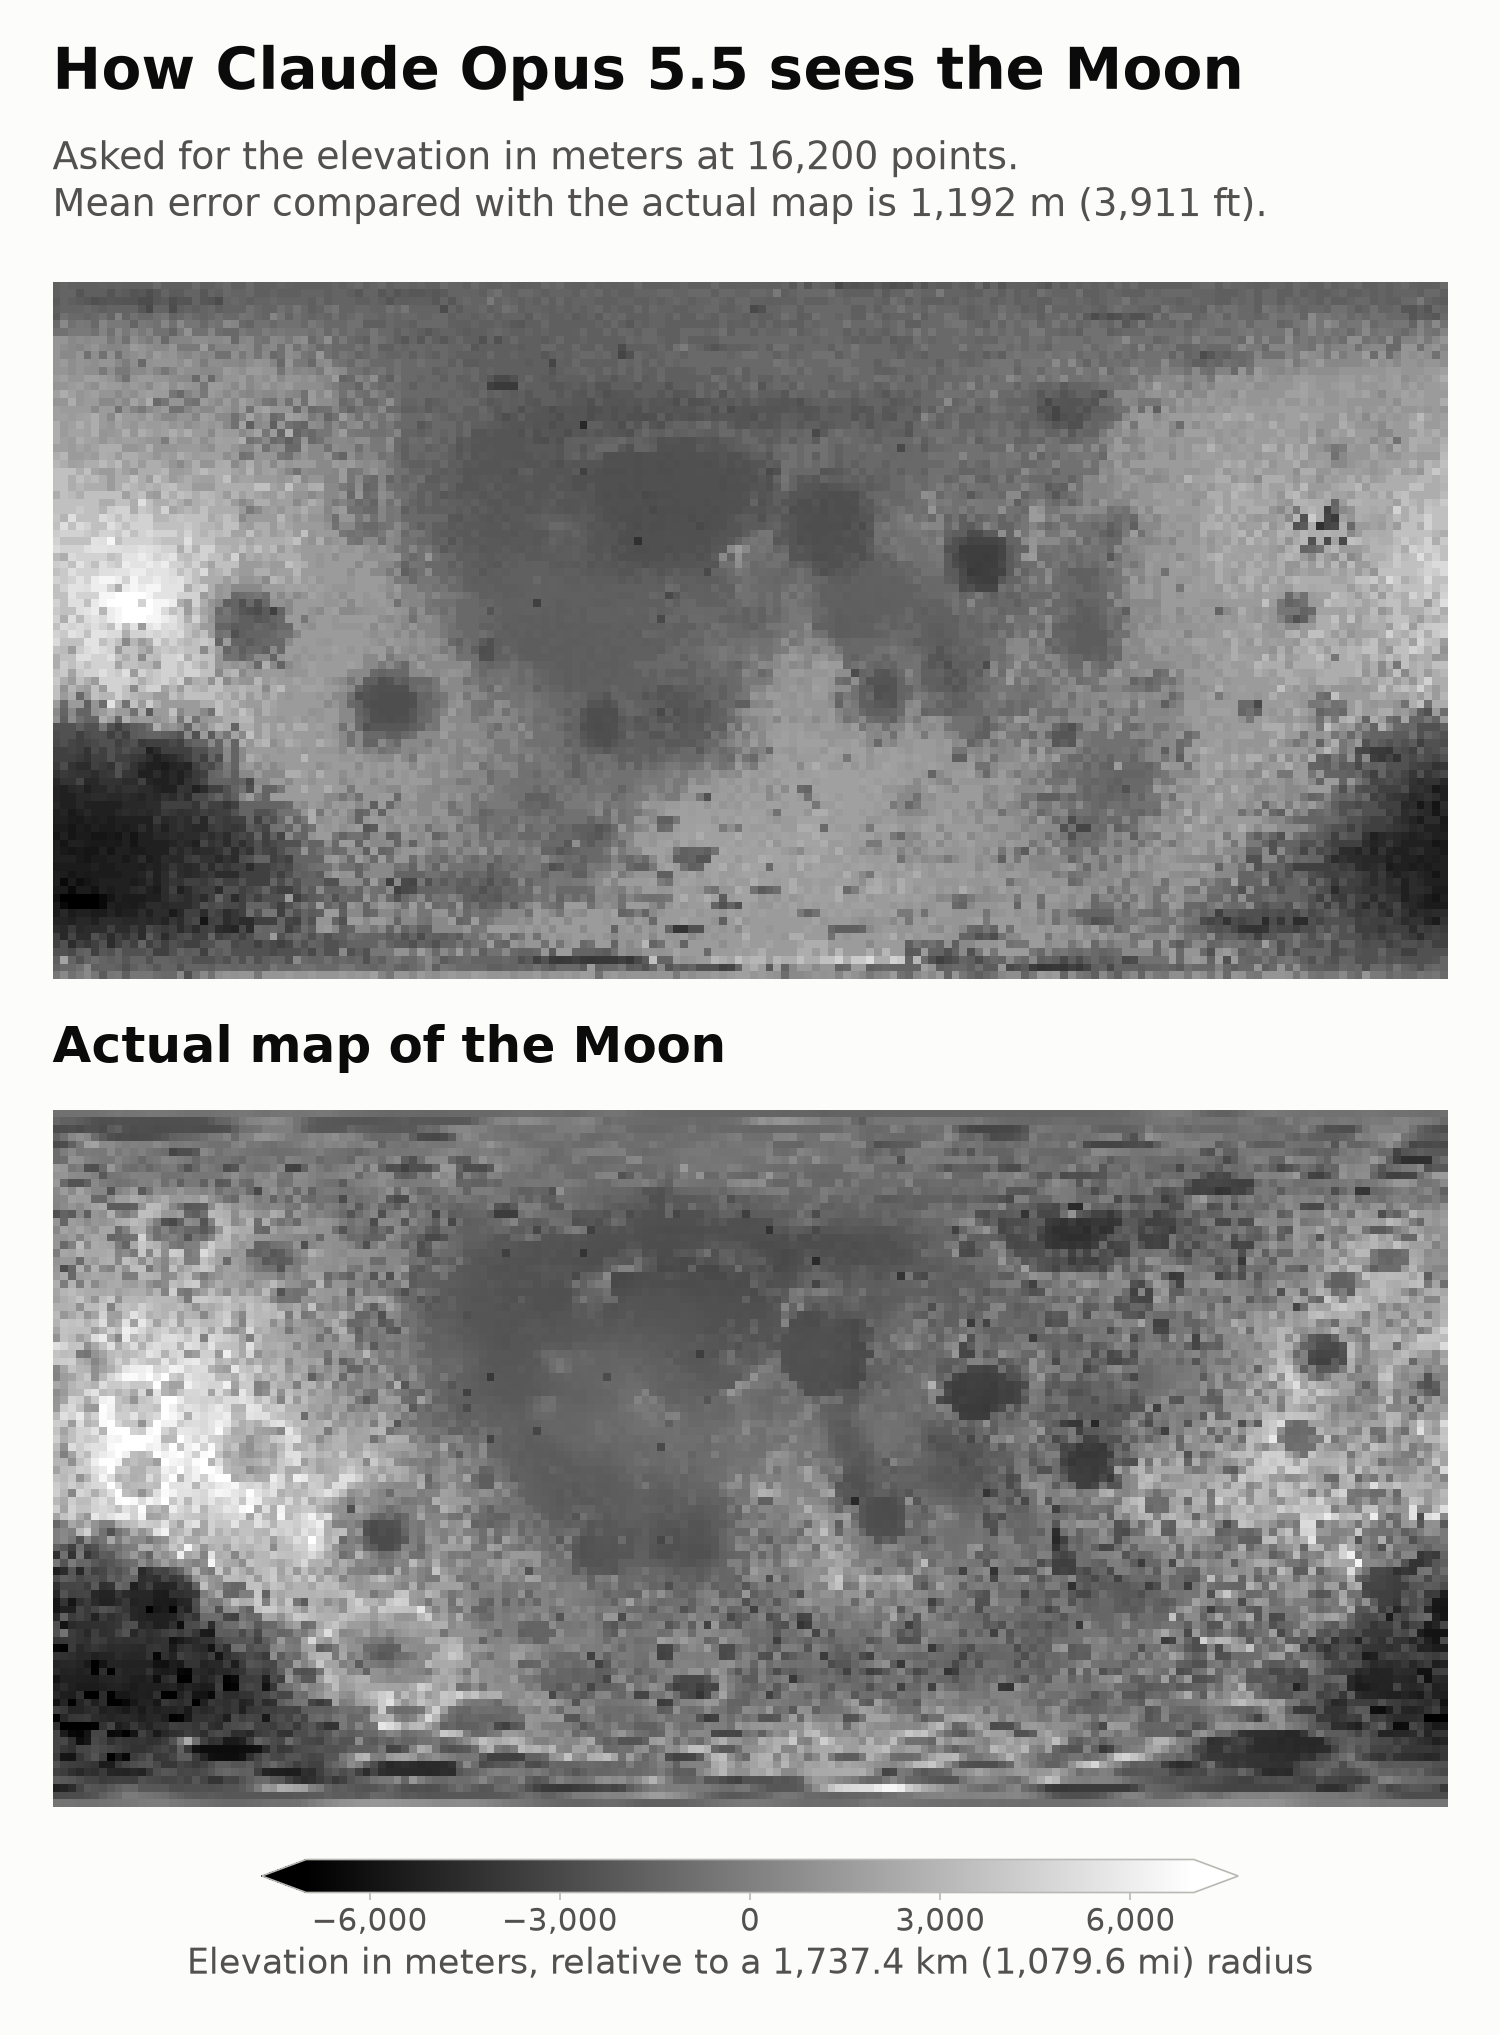
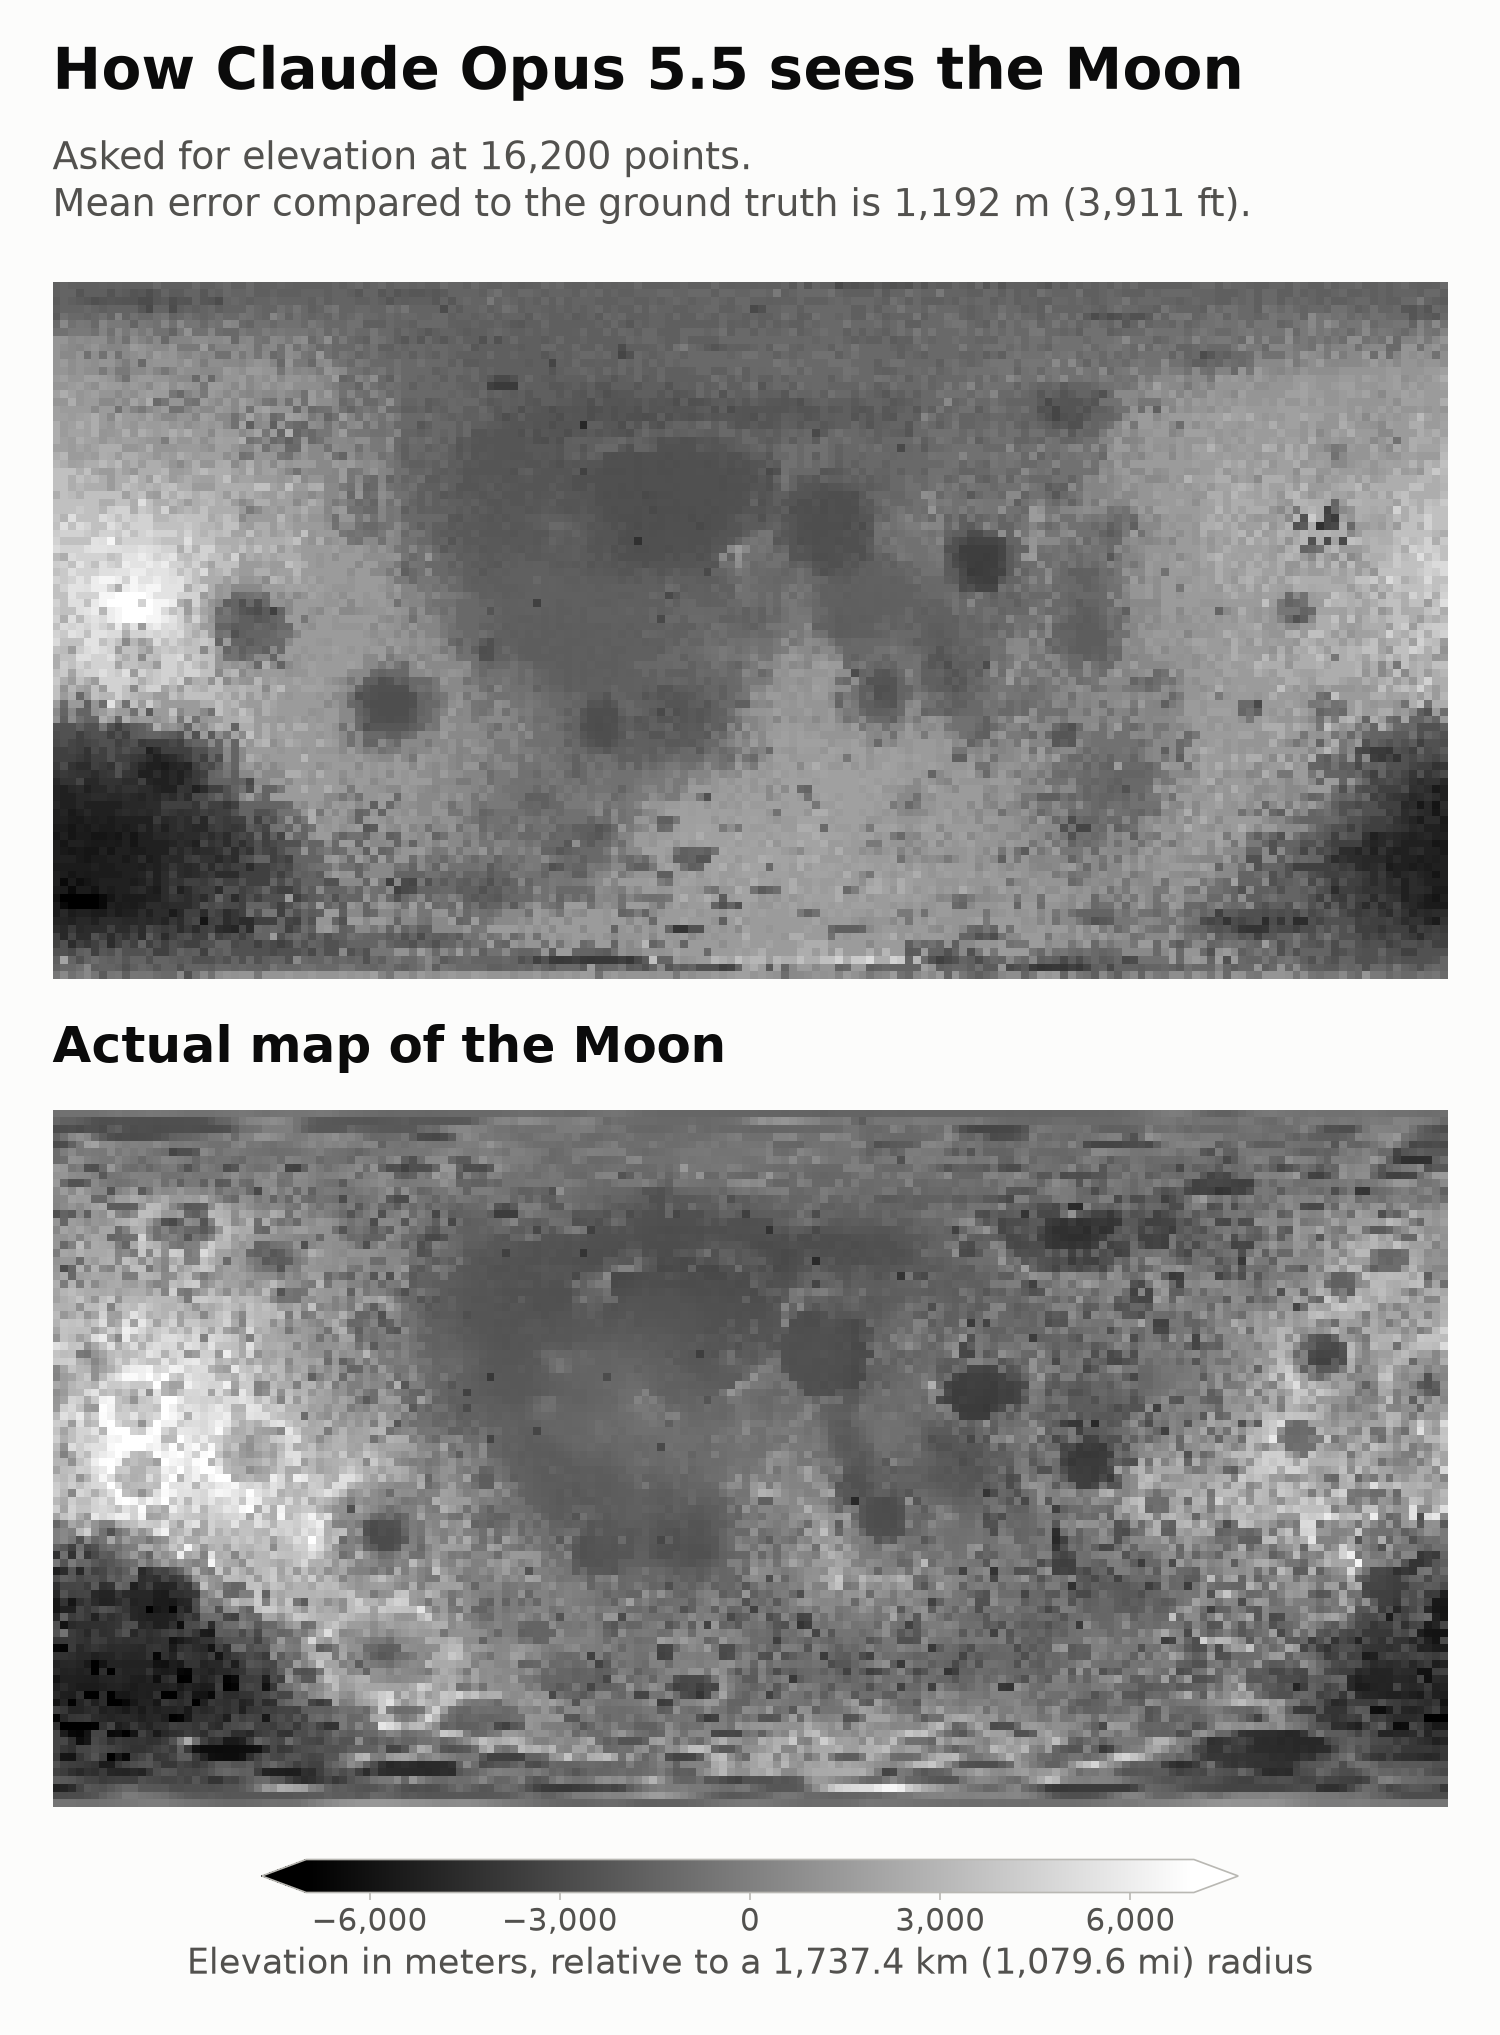
Shorter subtitle on the shareable image

Changed region(s): [[0.1533, 0.0619, 0.828, 0.1238]]

diff --git a/moonmapbench/report.py b/moonmapbench/report.py
@@ -259,8 +259,8 @@ def main(args: argparse.Namespace) -> None:
     draw_stacked(out / "stacked.png",
                  [(None, None, pred.reshape(shape)), ("Actual map of the Moon", None, truth.reshape(shape))],
                  f"How {MODEL_NAMES.get(args.model, args.model)} sees the Moon",
-                 f"Asked for the elevation in meters at {len(points):,} points.\n"
-                 f"Mean error compared with the actual map is {metrics['mae_m']:,.0f} m "
+                 f"Asked for elevation at {len(points):,} points.\n"
+                 f"Mean error compared to the ground truth is {metrics['mae_m']:,.0f} m "
                  f"({metrics['mae_m'] / METERS_PER_FOOT:,.0f} ft).")
 
     print(json.dumps(metrics, indent=2))
